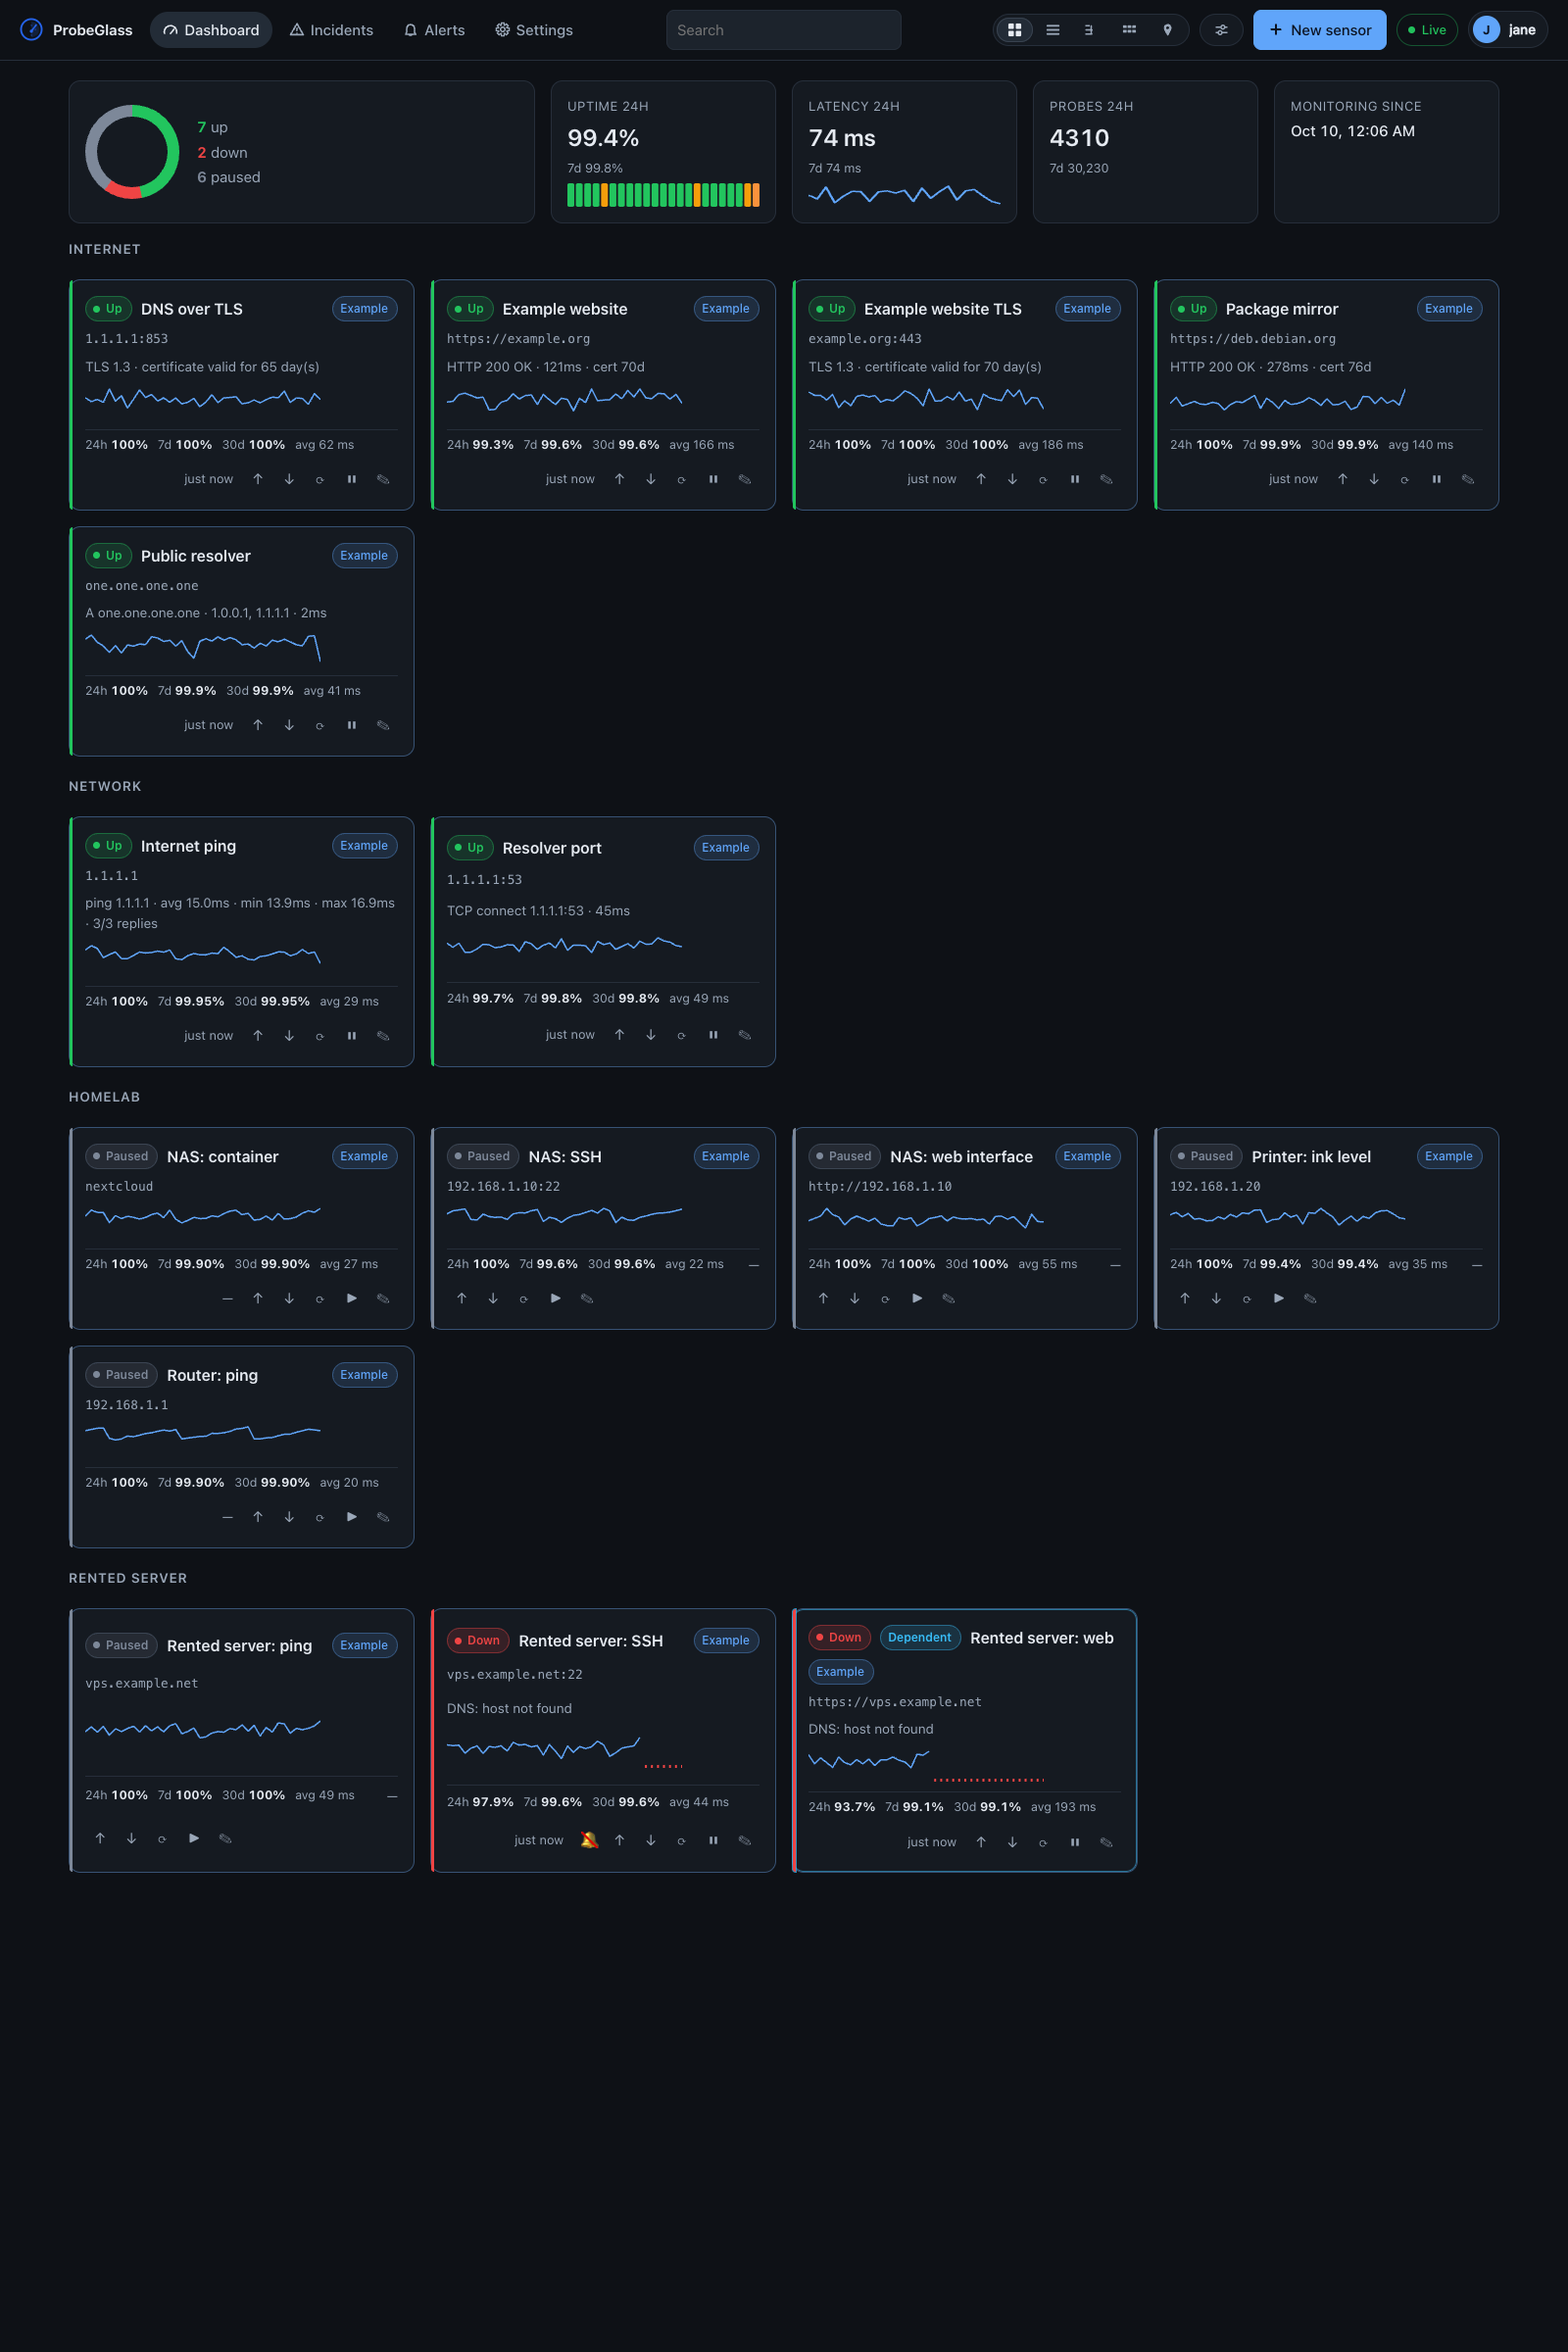
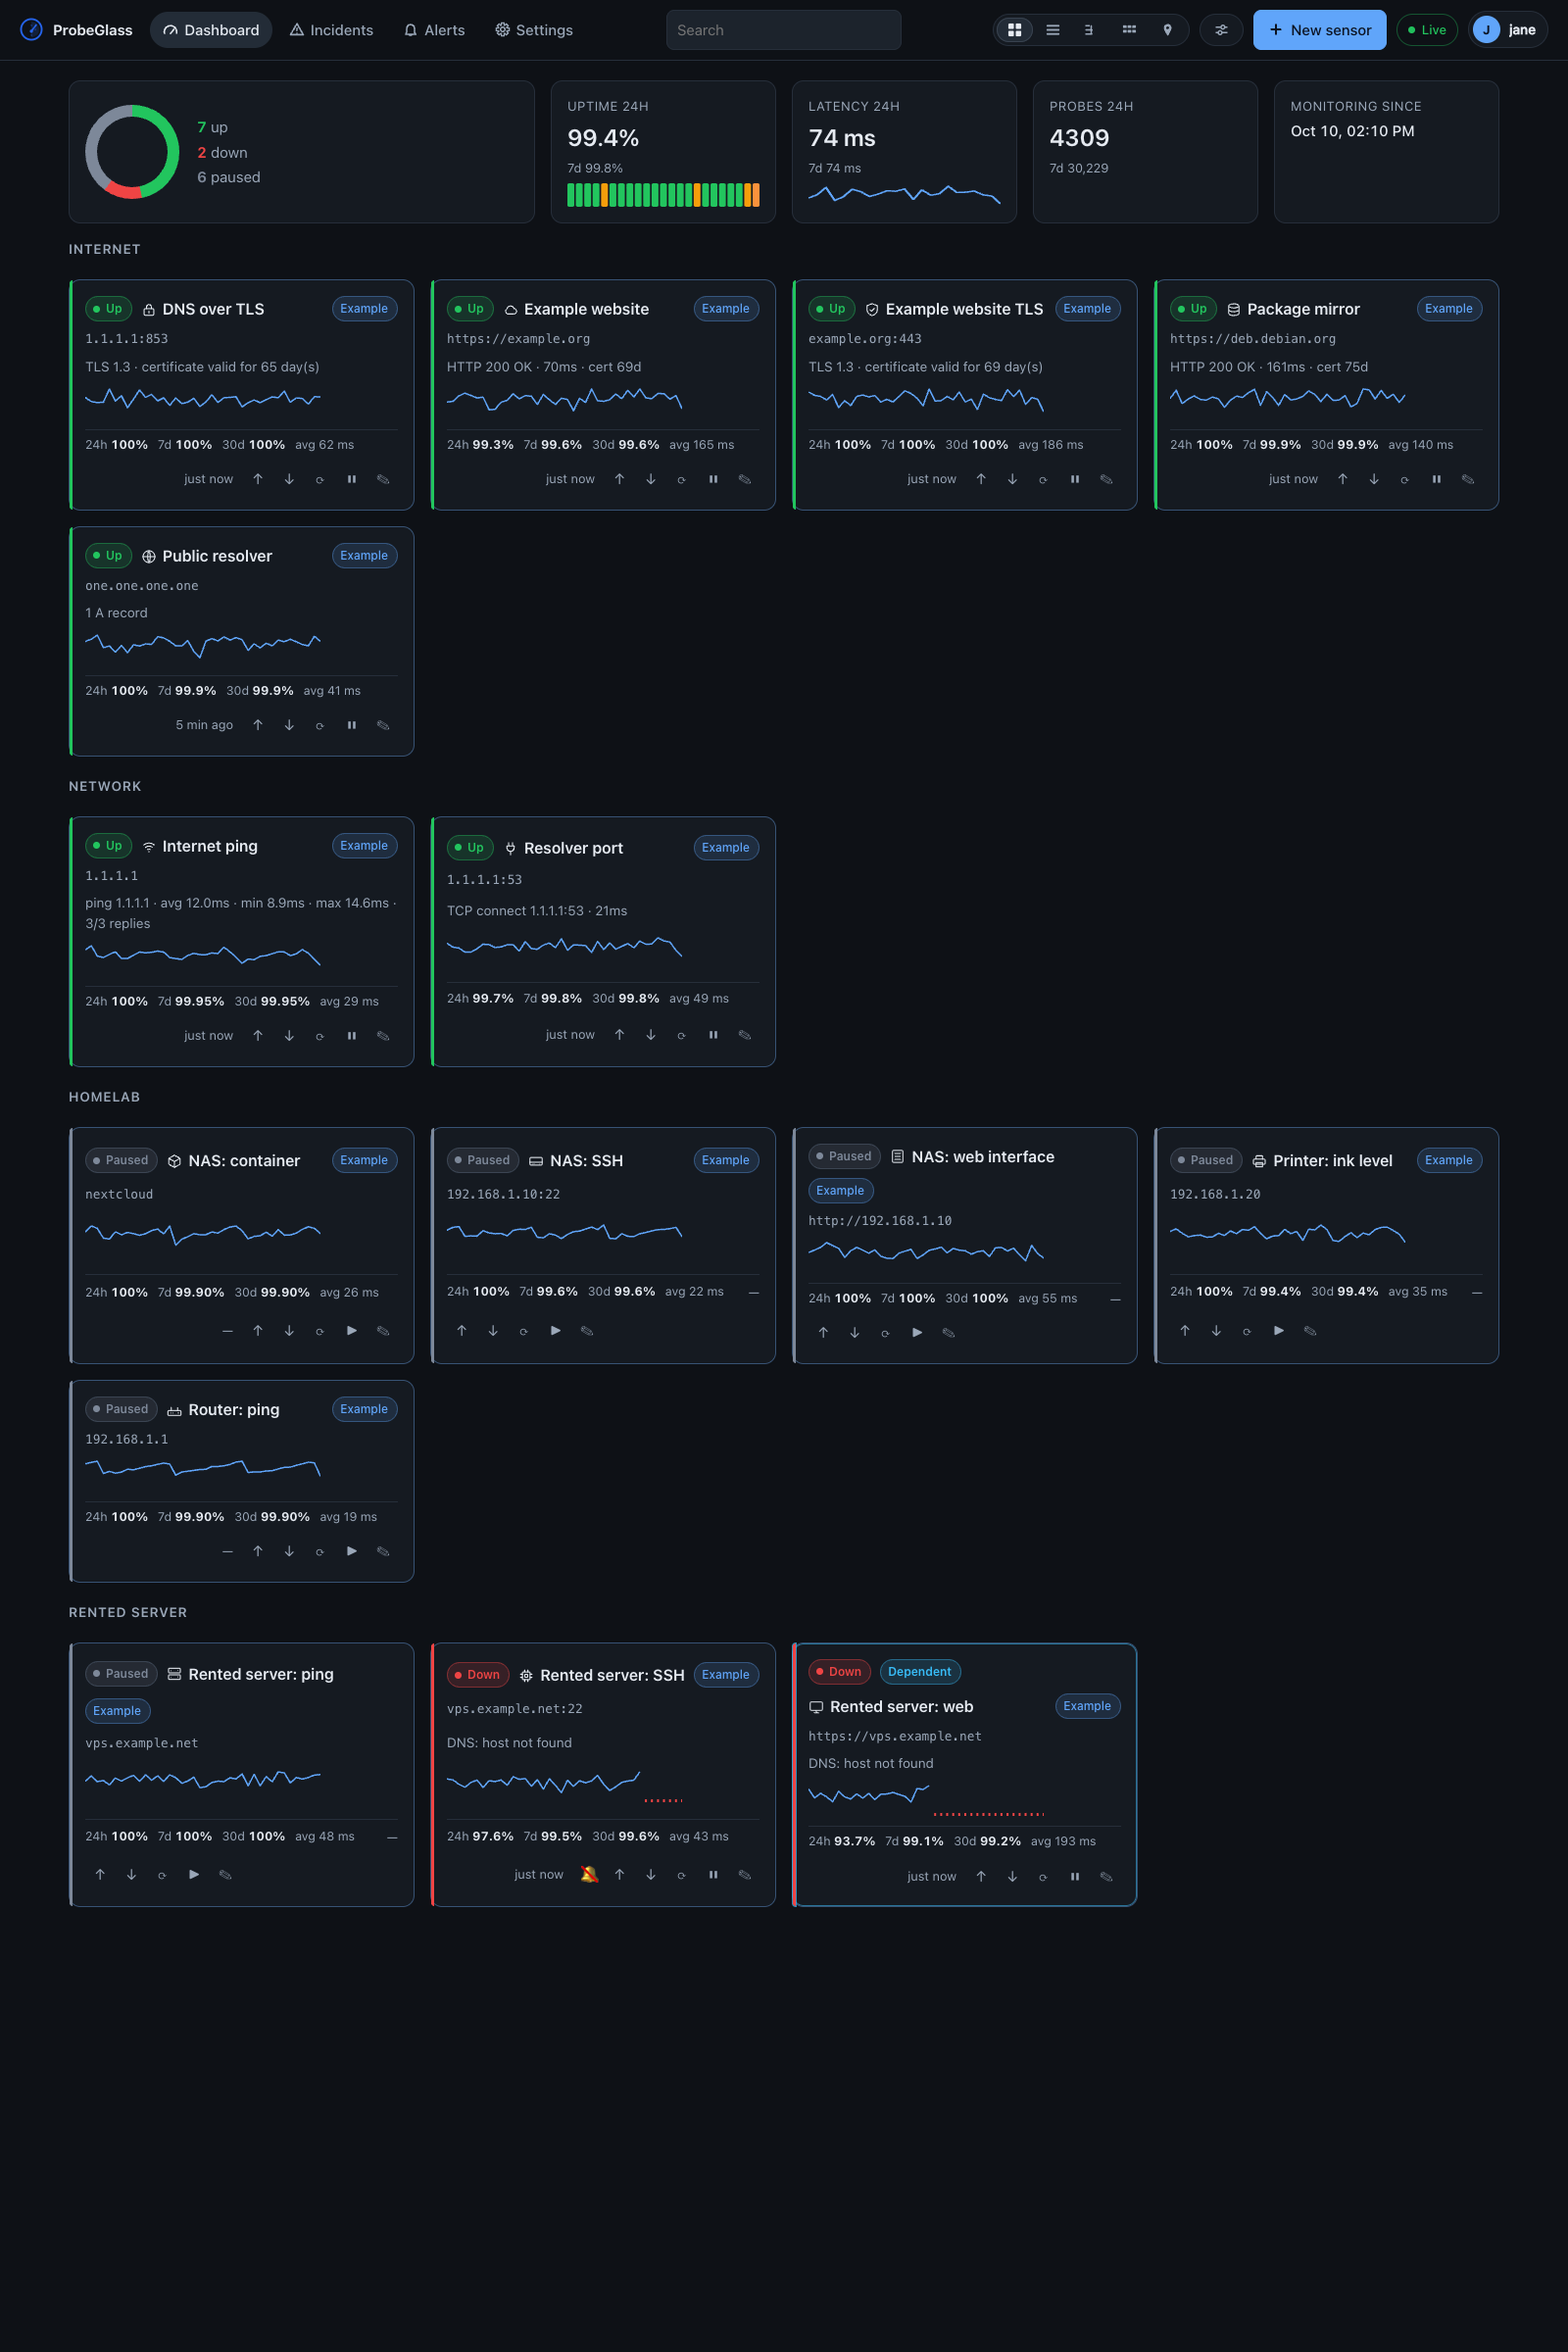
Symbols, and the pictures catch up
A page for the new feature: what a symbol is, the twenty-six drawings that ship in
the binary, what an upload may be and why SVG is not one of them, where a group's
colour comes from, and what the two forms look like in the configuration file. The
sidebar puts it after Dependencies, which is where the other thing a sensor can
carry lives.

The configuration reference gets the field on both a sensor and a site, and the
sentence about what a file owns now names the icon too — a sensor the file declares
is written from the file whole on every start, which is exactly why the field has
to be nameable there.

Every picture is regenerated, because the dashboard changed: the cards and the tree
now carry symbols. One is new — the picker, opened on the sensor form — and it is
in the page that describes it.

diff --git a/sidebars.js b/sidebars.js
@@ -44,6 +44,7 @@ const sidebars = {
         'configuration/dashboard',
         'configuration/maintenance',
         'configuration/dependencies',
+        'configuration/icons',
       ],
     },
     {

diff --git a/docs/configuration/icons.md b/docs/configuration/icons.md
@@ -1,0 +1,123 @@
+---
+title: Symbols on sensors, places and groups
+sidebar_label: Symbols
+description: Draw a router, a NAS or your own uploaded image beside a name — on a sensor, a place or the heading of a group.
+---
+
+# Symbols on sensors, places and groups
+
+A dashboard of names is harder to read than it looks. "Router", "Router: ping" and
+"Gateway" are three rows of text that mean three different things, and the eye has to
+read every one of them. A symbol beside the name is what lets it stop reading.
+
+Any **sensor**, any **place** and the heading of any **group** can carry one. The field
+is in the sensor editor, in the site editor, and in **Settings → Monitoring → Groups**,
+and the symbol is then drawn beside the name in every view: the cards, the list, the
+tree, the wall and the sensor's own detail dialog.
+
+<img
+  src="/img/icon-picker.png"
+  alt="The icon picker open on the sensor form: a row for No icon, then twenty-six built-in drawings with their names — Router, Switch, Server, NAS, Container, Cloud, Internet, Database — and below them the uploaded images and an Upload an image button."
+  width="1600"
+/>
+
+## The drawings that ship with the program
+
+Twenty-six of them, drawn by hand in the same line style as the rest of the interface:
+router, switch, server, NAS, container, cloud, internet, database, disk, processor,
+Wi-Fi, camera, printer, battery, socket, temperature, light, lock, certificate, alert,
+e-mail, phone, laptop, screen, clock and label. Nothing is downloaded and nothing is
+fetched: they live inside the binary.
+
+They are also **coloured by the text around them** rather than carrying a colour of
+their own, so the same file is right in the dark theme, in the light theme, and under
+all six accent colours. That is also why a group's heading passes its colour on to the
+symbol in front of it — the two are one thing to look at.
+
+## Your own images
+
+The same picker takes a file: **PNG, JPEG or GIF**, at most **64 KiB** and **512
+pixels** a side. Once uploaded it appears in the picker under **Uploaded**, and can be
+given to any sensor, place or group.
+
+Three things are worth knowing about how that works:
+
+- **The bytes go into the database, not into a folder beside it.** "One SQLite file,
+  and copying it is the whole backup" is a promise this project makes in three places,
+  and an image kept on disk would quietly make it false: the copy would come back
+  without them.
+- **SVG is refused, and not as a matter of taste.** An SVG is not an image but a
+  document: it may carry script and references to other sites, and it would be served
+  from this dashboard's own address, where that script would run with the session
+  cookie of whoever looked at it. A raster image cannot do that.
+- **What the file is gets read, not believed.** The name and the type the browser sends
+  are both chosen by whoever uploads; the dimensions and the format come from reading
+  the bytes, and a file that is truncated or is not an image at all is refused where
+  the message can still be acted on — in the dialog, next to the field.
+
+Deleting an uploaded image that something still wears is refused, and the refusal says
+how many sensors, places and groups point at it. Confirming takes it off all of them
+and deletes it in one go. Nothing breaks if you leave a dangling reference behind: a
+symbol is a piece of text, not a link, so an image that is gone simply draws nothing.
+
+## Groups
+
+A group is a word somebody typed on a sensor — there is no "create group" step
+anywhere, and no list of groups to keep in step with the sensors. What **Settings →
+Monitoring → Groups** holds is what is known *about* a group once somebody has said
+more:
+
+| Setting | What it does |
+|---|---|
+| Icon | the symbol drawn before the heading |
+| Colour | the colour of the heading, and of the symbol in front of it |
+| Position | where the group stands in the order; lower numbers first, and groups with the same number stay alphabetical |
+
+The colour is one of six names — azure, violet, emerald, amber, rose, slate — and not a
+value you type. Every colour in this interface exists twice, once for the dark theme and
+once for the light one, and a hex value chosen on one of them is wrong on the other.
+
+**Forget** removes all three and leaves the group alone: the sensors keep the word, and
+the heading goes on being drawn — plainly, exactly as it was before anybody opened the
+editor. A group with no settings is not an unfinished group; it is the ordinary state of
+every group on an installation nobody has decorated.
+
+## In the configuration file
+
+A sensor or a site declared in `probeglass.yaml` may name one:
+
+```yaml
+sites:
+  - name: Rack A
+    kind: local
+    icon: builtin:server
+
+sensors:
+  - name: Router
+    type: ping
+    target: 192.168.1.1
+    group: Network
+    icon: builtin:router
+```
+
+The two forms are the same two the dashboard writes: `builtin:<name>` for a drawing
+that ships with the program, `upload:<id>` for an image this installation has. They are
+checked when the file is applied — and by `probeglass doctor`, which reports them
+without changing anything — because a file doctor accepts has to be a file serve
+applies.
+
+That matters more here than it looks. A sensor the file declares is written from the
+file **whole** on every start, so a column the file could not name would be cleared each
+time the daemon came up; an icon set in the dashboard on a file-owned sensor would
+disappear overnight. The file owns everything about the rows it declares, and that is
+what it is for.
+
+## What a symbol is not
+
+- **It is not inherited.** A sensor's symbol is its own; a group's heading is drawn from
+  the group's settings. Decorating a group does not decorate the sensors in it.
+- **It does not change the map's pins.** A place on the map is drawn with the pin its
+  kind gives it — that is what tells a rack from a server at a hoster at a glance — and
+  a symbol is what a place shows beside its name in the tree and in the settings list.
+- **It is not monitored.** Nothing about a sensor's checks, its incident, its alerts or
+  its uptime depends on which picture is next to its name.

diff --git a/docs/configuration/file.md b/docs/configuration/file.md
@@ -127,6 +127,7 @@ are simple and worth reading twice:
 | `enabled` | bool | Default true |
 | `group` | string | Free-text label |
 | `site` | string | The **name** of a site, grouping the dashboard by place |
+| `icon` | string | A symbol beside the name: `builtin:router`, or `upload:7` for an image uploaded here. See [Symbols](/configuration/icons) |
 | `tags` | list of strings | |
 | `reminder_every` | duration | Repeat alerts while down; 0 disables |
 | `options` | map | Type-specific, see below |
@@ -151,7 +152,8 @@ sensors:
     site: Rack A          # created if it is not there yet
 ```
 
-A site that is worth describing properly goes in a list of its own:
+A site that is worth describing properly goes in a list of its own — and it takes an
+`icon` in the same two forms a sensor's does:
 
 ```yaml
 sites:
@@ -159,6 +161,7 @@ sites:
     kind: local          # local (default) or external
     lat: 48.1372         # optional, but both coordinates or neither
     lon: 11.5756
+    icon: builtin:server
 
   - name: Hetzner Cloud
     kind: external       # no coordinates: it groups, but is not on the map
@@ -170,6 +173,7 @@ sites:
 | `kind` | string | `local` (the homelab, the default) or `external` (a hoster or cloud) |
 | `lat` | float | −90 to 90 |
 | `lon` | float | −180 to 180 |
+| `icon` | string | `builtin:<name>` or `upload:<id>`, as on a sensor |
 
 A site written out in full is **managed** exactly like a sensor from the file: the
 file owns its name, its kind and its coordinates, and none of them can be changed
